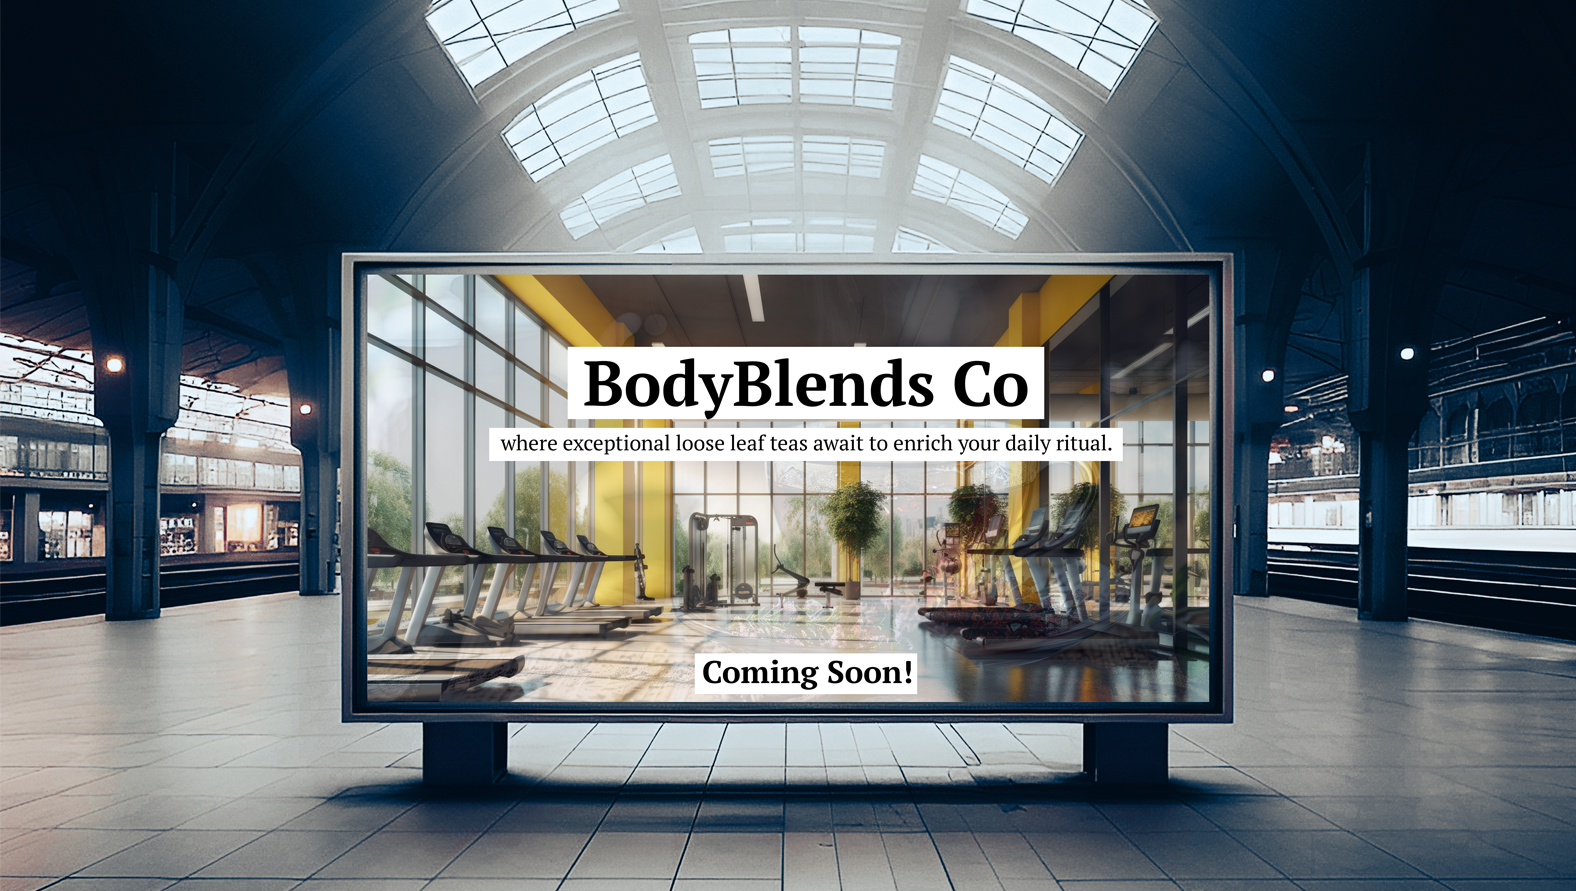
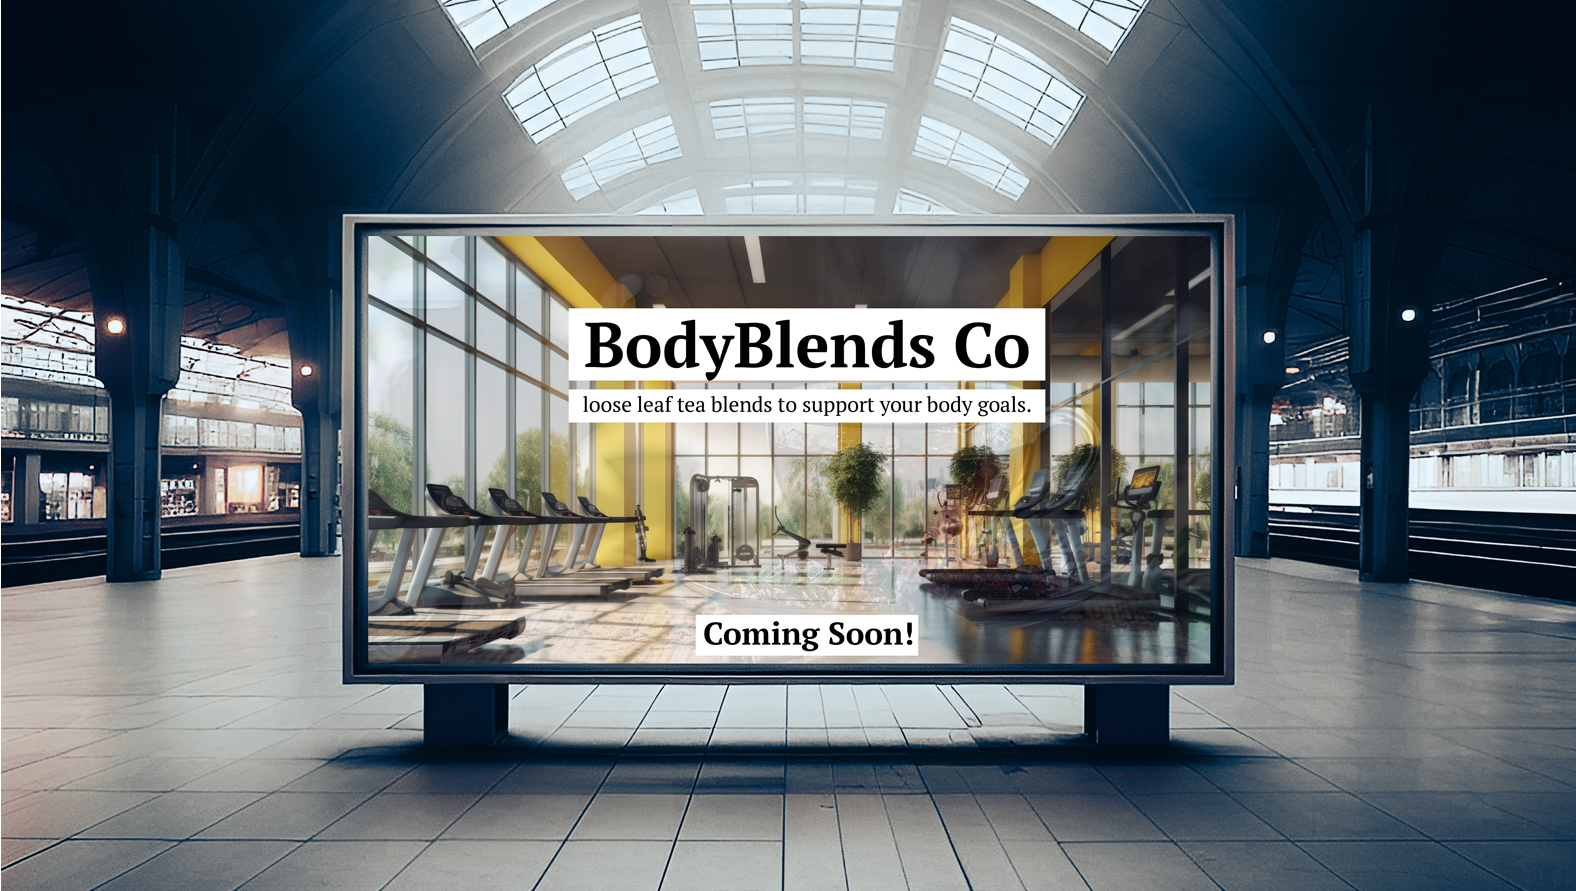
image update
added mobile image and made an image update

diff --git a/main.css b/main.css
@@ -1,4 +1,4 @@
-/* main.css */
+/* Default background for larger screens */
 body {
     margin: 0;
     padding: 0;
@@ -39,5 +39,13 @@ h1 {
 
     h1 {
         font-size: 3em;
+    }
+}
+
+/* Background image for mobile devices */
+@media (max-width: 599px) {
+    body {
+        background: url('/images/main-mobile.png') no-repeat center center fixed;
+        background-size: cover;
     }
 }
